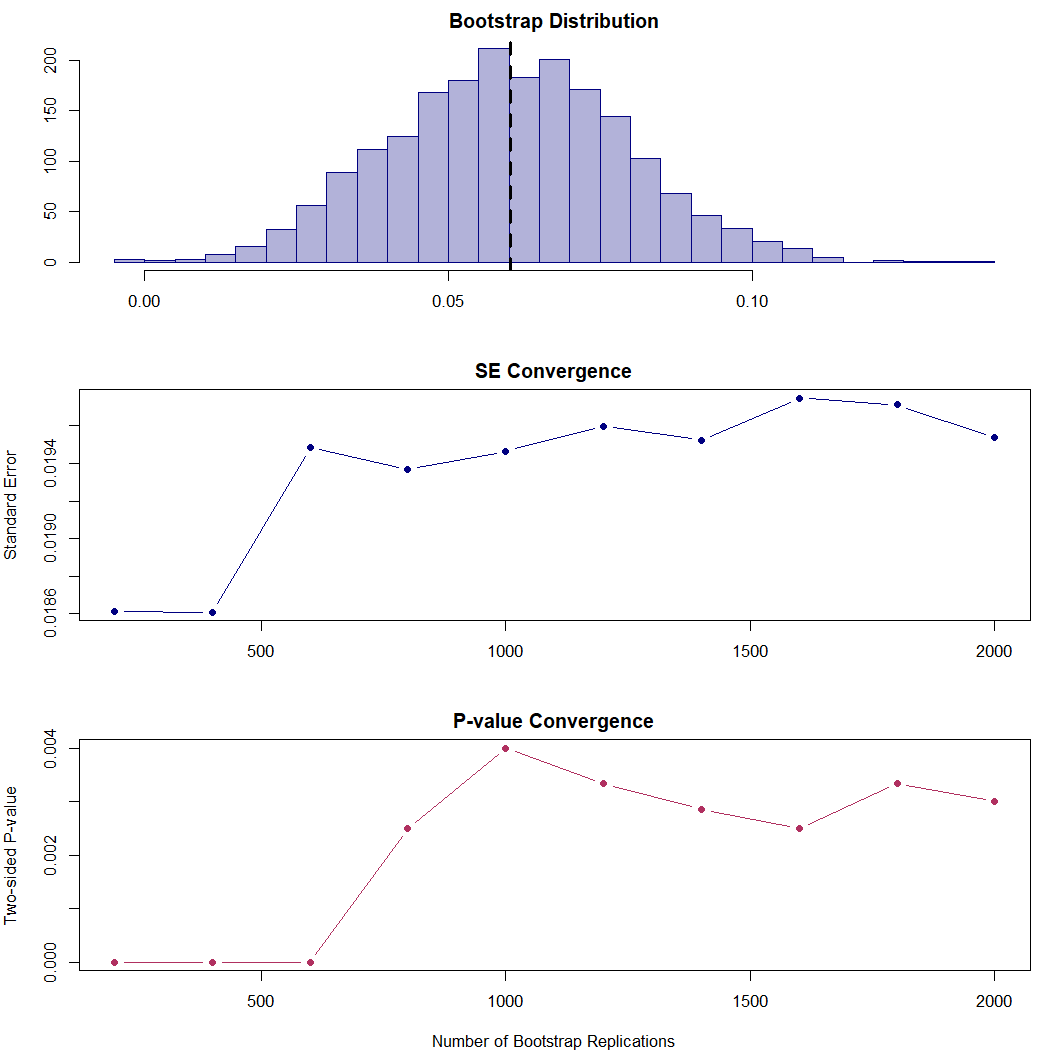
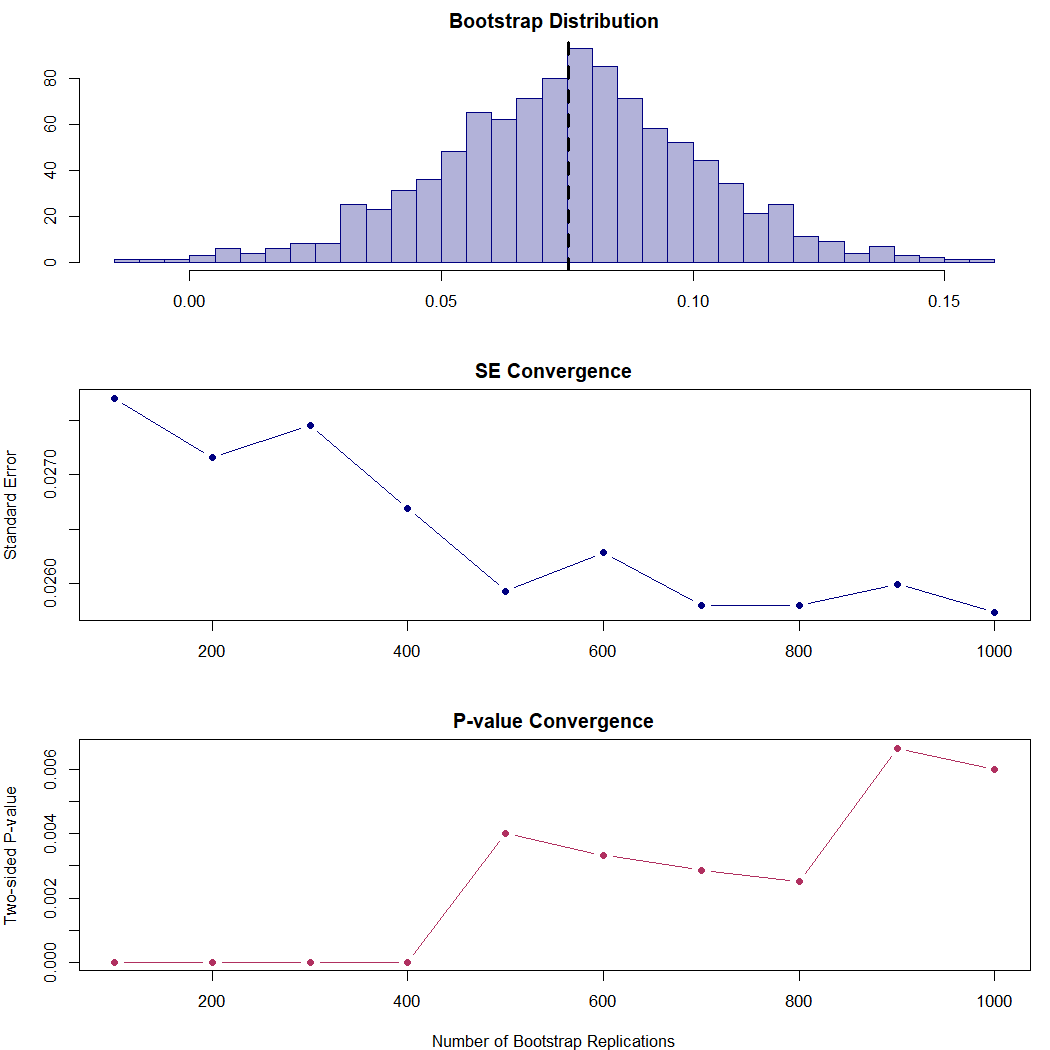
updated regression example

diff --git a/README.md b/README.md
@@ -37,18 +37,23 @@ so the CIs and *p*-values are robust to these complications.
 
 ## Quick start
 
+We use the Darfur data from `sensemakr`, with the full model
+specification including village fixed effects and `female` as the
+benchmark covariate:
+
 ``` r
 library(bootmakr)
 
 data(darfur, package = "sensemakr")
 
 out <- bootmakr(
-  peacefactor ~ directlyharmed + age + farmer_dar + herder_dar + pastvoted,
+  peacefactor ~ directlyharmed + age + farmer_dar + herder_dar +
+    pastvoted + hhsize_darfur + female + village,
   data    = darfur,
   treat   = "directlyharmed",
-  benchmark_covariates = "age",
+  benchmark_covariates = "female",
   kd      = 1,
-  reps    = 1000,
+  reps    = 500,
   seed    = 42,
   progress = FALSE
 )
@@ -56,16 +61,16 @@ out
 #> 
 #> Call:
 #> bootmakr(formula = peacefactor ~ directlyharmed + age + farmer_dar + 
-#>     herder_dar + pastvoted, data = darfur, treat = "directlyharmed", 
-#>     benchmark_covariates = "age", kd = 1, reps = 1000, seed = 42, 
-#>     progress = FALSE)
+#>     herder_dar + pastvoted + hhsize_darfur + female + village, 
+#>     data = darfur, treat = "directlyharmed", benchmark_covariates = "female", 
+#>     kd = 1, reps = 500, seed = 42, progress = FALSE)
 #> 
-#> Bootstrap sensitivity analysis (1,000 reps, n = 1,276)
-#> Benchmark: age | kd = 1, ky = 1
+#> Bootstrap sensitivity analysis (500 reps, n = 1,276)
+#> Benchmark: female | kd = 1, ky = 1
 #> 
 #> Adjusted estimates (percentile 95% CI):
-#>                Estimate Std. Err     2.5%    97.5% Pr(>|0|)   
-#> directlyharmed 0.060236 0.019465 0.022831 0.097697    0.004 **
+#>                Estimate Std. Err     2.5%    97.5% Pr(>|0|)  
+#> directlyharmed 0.075220 0.026589 0.014209 0.119091    0.012 *
 #> ---
 #> Signif. codes:  0 '***' 0.001 '**' 0.01 '*' 0.05 '.' 0.1 ' ' 1
 #> (H0: adjusted estimate = 0; CI and p-value from percentile bootstrap)
@@ -75,16 +80,19 @@ out
 
 Supply a vector of `kd` values to see how the adjusted effect changes as
 the hypothetical confounder grows stronger. The `plot()` method produces
-a coefficient plot with bootstrap CIs:
+a coefficient plot with bootstrap CIs. Here the simple (non-clustered)
+bootstrap accounts for heteroskedasticity induced by the village fixed
+effects:
 
 ``` r
 out_sweep <- bootmakr(
-  peacefactor ~ directlyharmed + age + farmer_dar + herder_dar + pastvoted,
+  peacefactor ~ directlyharmed + age + farmer_dar + herder_dar +
+    pastvoted + hhsize_darfur + female + village,
   data    = darfur,
   treat   = "directlyharmed",
-  benchmark_covariates = "age",
-  kd      = seq(0.5, 3, by = 0.5),
-  reps    = 1000,
+  benchmark_covariates = "female",
+  kd      = 1:3,
+  reps    = 500,
   seed    = 42,
   progress = FALSE
 )
@@ -92,21 +100,18 @@ out_sweep
 #> 
 #> Call:
 #> bootmakr(formula = peacefactor ~ directlyharmed + age + farmer_dar + 
-#>     herder_dar + pastvoted, data = darfur, treat = "directlyharmed", 
-#>     benchmark_covariates = "age", kd = seq(0.5, 3, by = 0.5), 
-#>     reps = 1000, seed = 42, progress = FALSE)
+#>     herder_dar + pastvoted + hhsize_darfur + female + village, 
+#>     data = darfur, treat = "directlyharmed", benchmark_covariates = "female", 
+#>     kd = 1:3, reps = 500, seed = 42, progress = FALSE)
 #> 
-#> Bootstrap sensitivity analysis (1,000 reps, n = 1,276)
-#> Benchmark: age | kd = 0.5 1 1.5 2 2.5 3, ky = 0.5 1 1.5 2 2.5 3
+#> Bootstrap sensitivity analysis (500 reps, n = 1,276)
+#> Benchmark: female | kd = 1 2 3, ky = 1 2 3
 #> 
 #> Adjusted estimates (percentile 95% CI):
-#>                         Estimate Std. Err     2.5%    97.5% Pr(>|0|)   
-#> directlyharmed (kd=0.5) 0.060720 0.019445 0.023569 0.098267    0.004 **
-#> directlyharmed (kd=1)   0.060236 0.019465 0.022831 0.097697    0.004 **
-#> directlyharmed (kd=1.5) 0.059752 0.019504 0.022081 0.097408    0.004 **
-#> directlyharmed (kd=2)   0.059268 0.019562 0.021542 0.097064    0.006 **
-#> directlyharmed (kd=2.5) 0.058784 0.019639 0.021089 0.096775    0.004 **
-#> directlyharmed (kd=3)   0.058299 0.019735 0.020823 0.096479    0.004 **
+#>                       Estimate Std. Err      2.5%    97.5% Pr(>|0|)  
+#> directlyharmed (kd=1) 0.075220 0.026589  0.014209 0.119091    0.012 *
+#> directlyharmed (kd=2) 0.052915 0.031626 -0.025391 0.098804     0.18  
+#> directlyharmed (kd=3) 0.030396 0.038848 -0.062536 0.083173    0.656  
 #> ---
 #> Signif. codes:  0 '***' 0.001 '**' 0.01 '*' 0.05 '.' 0.1 ' ' 1
 #> (H0: adjusted estimate = 0; CI and p-value from percentile bootstrap)
@@ -117,43 +122,46 @@ plot(out_sweep, type = "kd_sweep")
 
 ## Cluster bootstrap
 
-Pass a cluster identifier to `cluster` for a cluster-robust bootstrap —
-the resampling is done at the cluster level:
+If observations are correlated within villages, pass
+`cluster = "village"` for a cluster-robust bootstrap — the resampling is
+done at the village level:
 
 ``` r
-# Simulated clustered data
-set.seed(999)
-G  <- rep(1:50, each = 20)
-u  <- rnorm(50)[G]
-x  <- 0.5 * u + rnorm(1000)
-cv <- 0.3 * u + rnorm(1000)
-y  <- 0.5 * x + 0.4 * cv + 0.8 * u + rnorm(1000)
-sim <- data.frame(y = y, x = x, cv = cv, cid = G)
-
 out_cl <- bootmakr(
-  y ~ x + cv, data = sim, treat = "x",
-  benchmark_covariates = "cv", kd = c(0.5, 1),
-  reps = 1000, seed = 77, cluster = "cid",
+  peacefactor ~ directlyharmed + age + farmer_dar + herder_dar +
+    pastvoted + hhsize_darfur + female + village,
+  data    = darfur,
+  treat   = "directlyharmed",
+  benchmark_covariates = "female",
+  kd      = 1:3,
+  reps    = 500,
+  seed    = 42,
+  cluster = "village",
   progress = FALSE
 )
 out_cl
 #> 
 #> Call:
-#> bootmakr(formula = y ~ x + cv, data = sim, treat = "x", benchmark_covariates = "cv", 
-#>     kd = c(0.5, 1), reps = 1000, seed = 77, cluster = "cid", 
-#>     progress = FALSE)
+#> bootmakr(formula = peacefactor ~ directlyharmed + age + farmer_dar + 
+#>     herder_dar + pastvoted + hhsize_darfur + female + village, 
+#>     data = darfur, treat = "directlyharmed", benchmark_covariates = "female", 
+#>     kd = 1:3, reps = 500, seed = 42, cluster = "village", progress = FALSE)
 #> 
-#> Bootstrap sensitivity analysis (1,000 reps, n = 1,000, 50 clusters)
-#> Benchmark: cv | kd = 0.5 1, ky = 0.5 1
+#> Bootstrap sensitivity analysis (500 reps, n = 1,276, 486 clusters)
+#> Benchmark: female | kd = 1 2 3, ky = 1 2 3
 #> 
 #> Adjusted estimates (percentile 95% CI):
-#>            Estimate Std. Err     2.5%    97.5% Pr(>|0|)    
-#> x (kd=0.5) 0.769341 0.056165 0.657107 0.877216        0 ***
-#> x (kd=1)   0.755700 0.052849 0.647354 0.853459        0 ***
+#>                       Estimate Std. Err      2.5%    97.5% Pr(>|0|)   
+#> directlyharmed (kd=1) 0.075220 0.025932  0.022021 0.125235    0.004 **
+#> directlyharmed (kd=2) 0.052915 0.033005 -0.015680 0.114647     0.12   
+#> directlyharmed (kd=3) 0.030396 0.043038 -0.062151 0.110465    0.452   
 #> ---
 #> Signif. codes:  0 '***' 0.001 '**' 0.01 '*' 0.05 '.' 0.1 ' ' 1
 #> (H0: adjusted estimate = 0; CI and p-value from percentile bootstrap)
+plot(out_cl, type = "kd_sweep")
 ```
+
+![](man/figures/README-cluster-1.png)<!-- -->
 
 ## Grouped benchmarks
 
@@ -171,11 +179,11 @@ out_g <- bootmakr(
   treat   = "owner_ceo",
   gbenchmark_covariates = c("ceo_tenure", "ceo_edu_dummy"),
   kd      = seq(0.1, 0.5, by = 0.1),
-  reps    = 10000,
+  reps    = 500,
   cluster = "firm_id",
   seed    = 912323
 )
-out_g
+plot(out_g, type = "kd_sweep")
 ```
 
 ## Convergence diagnostics
@@ -186,39 +194,41 @@ whether SEs and *p*-values have stabilised:
 
 ``` r
 out_conv <- bootmakr(
-  peacefactor ~ directlyharmed + age + farmer_dar + herder_dar + pastvoted,
+  peacefactor ~ directlyharmed + age + farmer_dar + herder_dar +
+    pastvoted + hhsize_darfur + female + village,
   data    = darfur,
   treat   = "directlyharmed",
-  benchmark_covariates = "age",
+  benchmark_covariates = "female",
   kd      = 1,
-  reps    = 2000,
+  reps    = 1000,
   seed    = 42,
-  converge = list(minreps = 200, stepsize = 200, threshold = 1500),
+  cluster = "village",
+  converge = list(minreps = 100, stepsize = 100, threshold = 750),
   progress = FALSE
 )
 out_conv
 #> 
 #> Call:
 #> bootmakr(formula = peacefactor ~ directlyharmed + age + farmer_dar + 
-#>     herder_dar + pastvoted, data = darfur, treat = "directlyharmed", 
-#>     benchmark_covariates = "age", kd = 1, reps = 2000, seed = 42, 
-#>     progress = FALSE, converge = list(minreps = 200, stepsize = 200, 
-#>         threshold = 1500))
+#>     herder_dar + pastvoted + hhsize_darfur + female + village, 
+#>     data = darfur, treat = "directlyharmed", benchmark_covariates = "female", 
+#>     kd = 1, reps = 1000, seed = 42, cluster = "village", progress = FALSE, 
+#>     converge = list(minreps = 100, stepsize = 100, threshold = 750))
 #> 
-#> Bootstrap sensitivity analysis (2,000 reps, n = 1,276)
-#> Benchmark: age | kd = 1, ky = 1
+#> Bootstrap sensitivity analysis (1,000 reps, n = 1,276, 486 clusters)
+#> Benchmark: female | kd = 1, ky = 1
 #> 
 #> Adjusted estimates (percentile 95% CI):
 #>                Estimate Std. Err     2.5%    97.5% Pr(>|0|)   
-#> directlyharmed 0.060236 0.019539 0.022839 0.098752    0.003 **
+#> directlyharmed 0.075220 0.025740 0.021085 0.125726    0.006 **
 #> ---
 #> Signif. codes:  0 '***' 0.001 '**' 0.01 '*' 0.05 '.' 0.1 ' ' 1
 #> (H0: adjusted estimate = 0; CI and p-value from percentile bootstrap)
 #> 
-#> Convergence diagnostics (reps 200 to 2000 by 200, threshold = 1500):
-#>              Mean  Range  CV % Range (>=1500) CV% (>=1500)
-#> Std. error 0.0194 0.0011  2.13         0.0002         0.57
-#> P-value    0.0022 0.0040 71.91         0.0008        14.24
+#> Convergence diagnostics (reps 100 to 1000 by 100, threshold = 750):
+#>              Mean  Range  CV % Range (>=750) CV% (>=750)
+#> Std. error 0.0265 0.0020  2.81        0.0003        0.52
+#> P-value    0.0025 0.0067 99.83        0.0042       44.27
 #> (CV % = coefficient of variation: sd / mean * 100)
 plot(out_conv, type = "convergence")
 ```
@@ -231,13 +241,13 @@ All bootstrap replicates are stored in the returned object, so there is
 no need to re-run the analysis to inspect the distribution:
 
 ``` r
-draws <- out$boot_samples[, 1]          # vector of B adjusted estimates
+draws <- out_cl$boot_samples[, 1]      # vector of B adjusted estimates
 draws <- draws[is.finite(draws)]
 
 # Percentiles, moments, etc.
 quantile(draws, c(0.025, 0.5, 0.975))
 #>       2.5%        50%      97.5% 
-#> 0.02283058 0.05960335 0.09769660
+#> 0.02202080 0.07589556 0.12523548
 
 # Or export for further analysis
 # write.csv(data.frame(adjusted_estimate = draws), "boot_draws.csv")
@@ -273,11 +283,11 @@ Cinelli, C. and Hazlett, C. (2020). Making Sense of Sensitivity:
 Extending Omitted Variable Bias. *Journal of the Royal Statistical
 Society, Series B (Statistical Methodology)*, 82(1), 39–67.
 
-Cinelli, C., Ferwerda, J. and Hazlett, C. (2024). sensemakr: Sensitivity
+Cinelli, C., J. Ferwerda, and C. Hazlett (2024). sensemakr: Sensitivity
 analysis tools for OLS in R and Stata. *Observational Studies*, 10(2),
 93-127.
 
-Lonati, S. and Wulff, J. N. (2026). Why you should not use the ITCV with
+Lonati, S. and J. N. Wulff (2026). Why you should not use the ITCV with
 robust standard errors (and what to do instead). *SSRN Working Paper*.
 
 ## License
